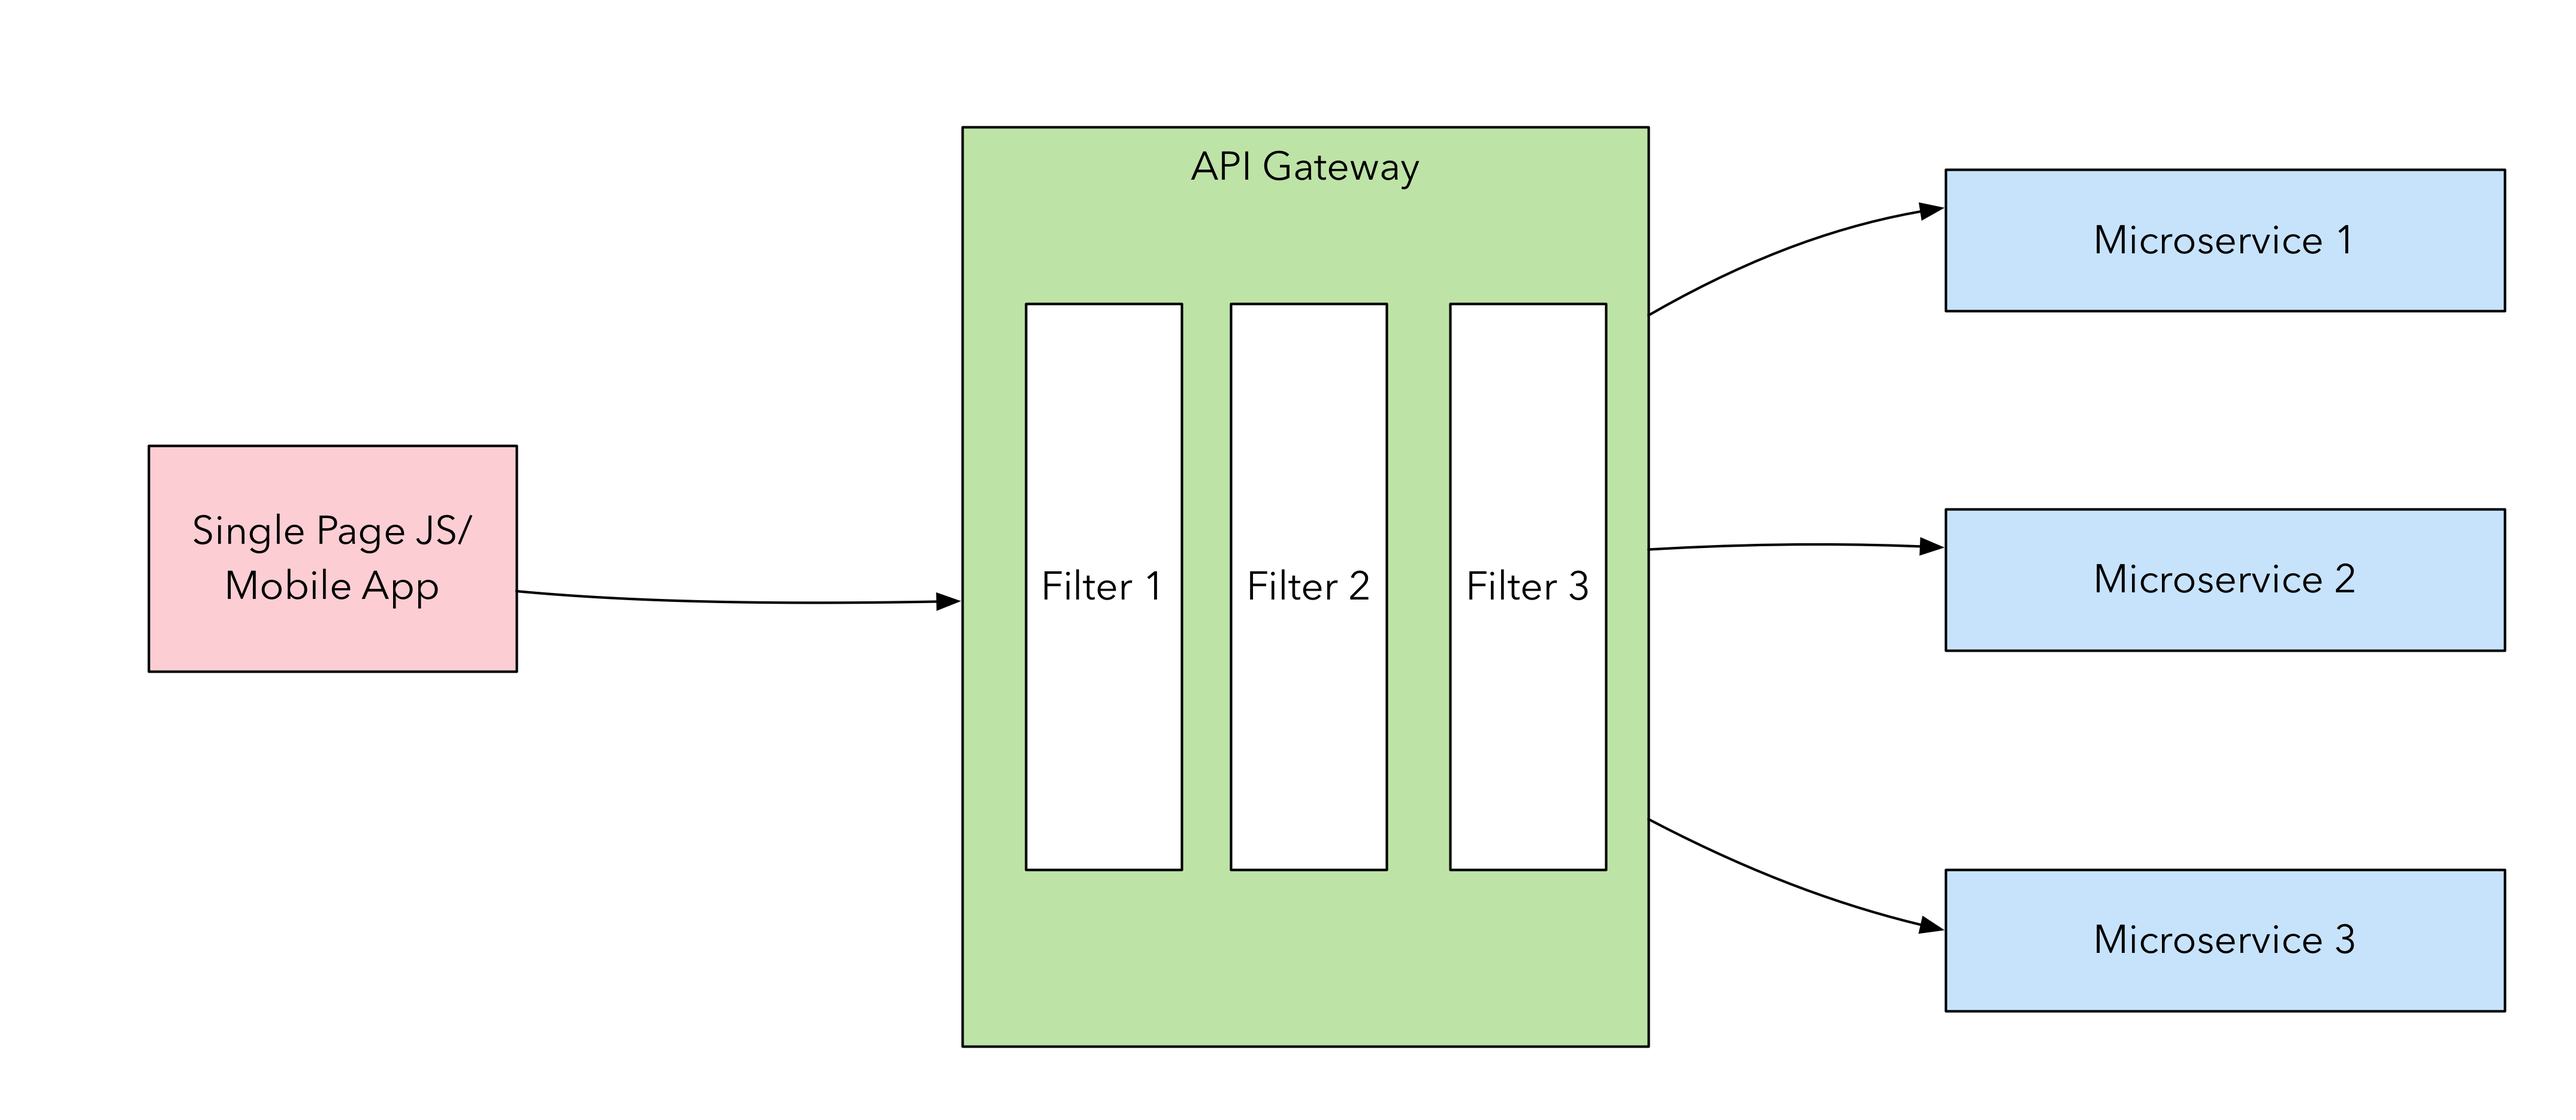
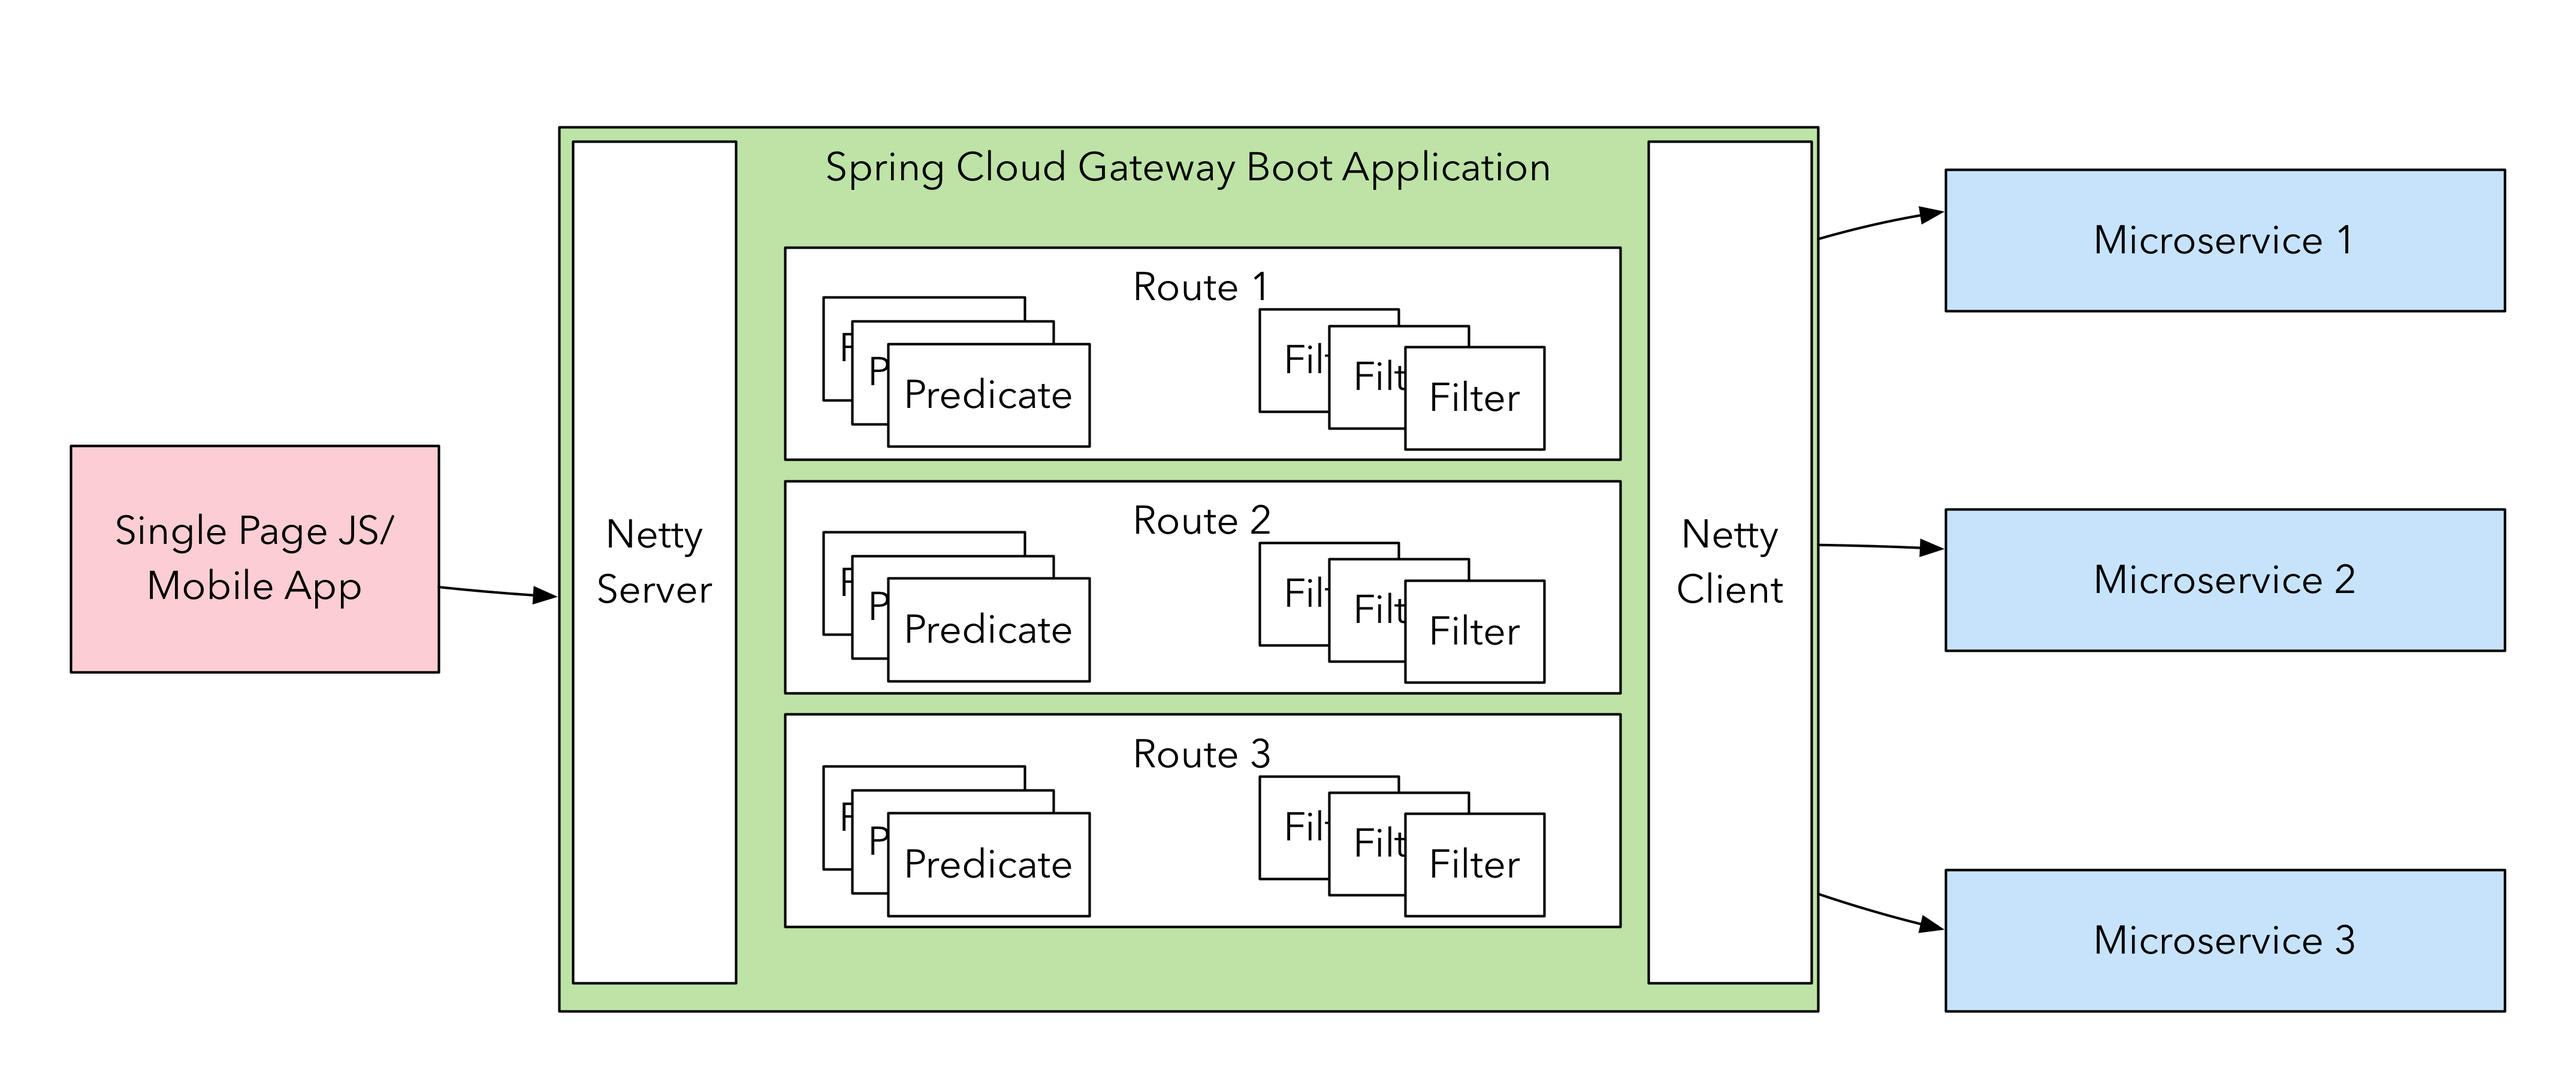
Strangler pattern

diff --git a/index.html b/index.html
@@ -26,29 +26,27 @@
     <div class="slides">
         <section>
             <h2>Spring Cloud Gateway</h2>
-
-            <p>
-                <small>Biju Kunjummen
-                    <ul>
-                        <li><a href="http://java-allandsundry.com">http://java-allandsundry.com</a></li>
-                        <li><a href="https://github.com/bijukunjummen">https://github.com/bijukunjummen</a></li>
-                        <li>@bijukunjummen</li>
-                    </ul>
-                </small>
-                <small><a href="https://www.youtube.com/watch?v=9wocKqF15B8">Heavily borrowed from Spencer Gibb, Sree
-                    Tummidi's Spring One Presentation</a></small>
-            </p>
         </section>
+        <section>    
+                <p>
+                    <small>Biju Kunjummen
+                        <ul>
+                            <li><a href="http://java-allandsundry.com">http://java-allandsundry.com</a></li>
+                            <li><a href="https://github.com/bijukunjummen">https://github.com/bijukunjummen</a></li>
+                            <li>@bijukunjummen</li>
+                        </ul>
+                    </small>
+                    <small><a href="https://www.youtube.com/watch?v=9wocKqF15B8">Heavily borrowed from Spencer Gibb, Sree
+                        Tummidi's Spring One Presentation</a></small>
+                </p>
+            </section>
         <section>
             <h4>Gateway Routing</h4>
             <small>Courtesy of https://docs.microsoft.com/en-us/azure/architecture/patterns/gateway-routing</small>
             <img src="images/Gateway.png"/>
             <aside class="notes">
-                When a client needs to consume multiple services, setting up a separate endpoint for each service and
-                having the client manage each endpoint can be challenging
-                With this pattern, the client application only needs to know about and communicate with a single
-                endpoint. If a service is consolidated or decomposed, the client does not necessarily require updating.
-                It can continue making requests to the gateway, and only the routing changes.
+                One of the common usage of Gateway patterns
+                Customer gets a single endpoint to a set of microservices
             </aside>
         </section>
         <section>
@@ -60,15 +58,16 @@
             <ul>
                 <li>Routing</li>
                 <li>Security</li>
-                <li>Resiliency</li>
-                <li>Monolith Strangling</li>
                 <li>Rate Limiting/Throttling</li>
                 <li>Monitoring</li>
                 <li>Canary</li>
             </ul>
-            <aside class="notes">
-                http://microservices.io/patterns/apigateway.html
-            </aside>
+            <br/>
+            <small>Sourced from http://microservices.io/patterns/apigateway.html</small>
+        </section>
+        <section>
+            <h4>Gateway Sample - Monolith Strangling</h4>
+            <img src="images/Strangler.png"/>
         </section>
         <section>
             <h3>Gateway Types</h3>
@@ -101,6 +100,39 @@
             </small>
         </section>
         <section>
+            <section>
+                <h3>Async & Non-Blocking - What does it mean</h3>
+            </section>
+            <section>
+                <h3>A Blocking IO Call</h3>
+                <img src="images/BlockingThread.png"/>
+            </section>
+            <section>
+                <h3>Async Blocking IO Call</h3>
+                <img src="images/AsyncIO.png"/>
+            </section>
+            <section>
+                    <h3>Non-Blocking Event Loop</h3>
+                    <img src="images/Event_Loop_Diagram.svg"/>
+                    <small>More Content</small>
+                </section>
+            <section>
+                <img src="images/AsyncNonBlocking.png"/>
+                <br/>
+                <small>Courtesy of <a
+                        href="https://medium.com/netflix-techblog/zuul-2-the-netflix-journey-to-asynchronous-non-blocking-systems-45947377fb5c">Netflix
+                    Zuul2 Blog</a></small>
+            </section>
+        </section>
+        <section>
+            <h4>Non-Blocking IO is good but coding is difficult</h4>
+            <ul>
+                <li>Callback hell</li>
+                <li>Difficult to debug</li>
+            </ul>
+        </section>
+
+        <section>
             <h3>Spring Cloud Gateway to the Rescue</h3>
             <ul>
                 <li>Spring 5 based</li>
@@ -110,34 +142,13 @@
             </ul>
         </section>
         <section>
-            <section>
-                <h3>Async & Non-Blocking - What does it mean</h3>
-            </section>
-            <section>
-                <h3>A Blocking IO Call</h3>
-                <img src="images/BlockingThread.png"/>
-            </section>
-            <section>
-                <h3>Blocking IO Call using a Thread Pool</h3>
-                <img src="images/AsyncIO.png"/>
-            </section>
-            <section>
-                <h3>Non-Blocking IO using an Event Loop</h3>
-                <img src="images/AsyncNonBlockingIO.png"/>
-            </section>
-            <section>
-                <img src="images/AsyncNonBlocking.png"/>
-                <br/>
-                <small>Courtesy of <a
-                        href="https://medium.com/netflix-techblog/zuul-2-the-netflix-journey-to-asynchronous-non-blocking-systems-45947377fb5c">Netflix
-                    Zuul2 Blog</a></small>
-            </section>
-            <section>
-                <h3>Non-Blocking Event Loop</h3>
-                <img src="images/Event_Loop_Diagram.svg"/>
-                <small>More Content</small>
-            </section>
-
+            <h3>Java/Kotlin based DSL to configure the following</h3>
+            <img src="images/ApiGateway.png"/>
+            <aside class="notes">
+                WebFilter - manipulate the request/response
+                Predicate - test some aspect of the request to determine whether to route it
+                ServerWebExchange - allows access to all parts of the http request and response
+            </aside>
         </section>
         <section>
             <h2>DEMOS..DEMOS..DEMOS..</h2>
